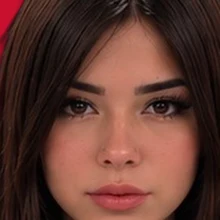
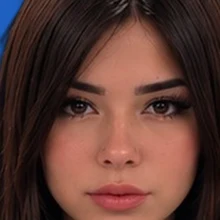
Propuesta productores de seguros: paleta de confianza (azul marino, azul y dorado)
Claude-Session: https://claude.ai/code/session_019ZUMXAytubFaQ5bmkBkFJN

Changed region(s): [[0.0, 0.0, 0.1091, 0.3]]

diff --git a/propuesta-productores-de-seguros/index.html b/propuesta-productores-de-seguros/index.html
@@ -8,8 +8,8 @@
 <link href="https://fonts.googleapis.com/css2?family=Fraunces:opsz,wght@9..144,500;9..144,700&family=Manrope:wght@400;500;600;700;800&display=swap" rel="stylesheet">
 <style>
 :root{
-  --navy:#0B0B0C; --navy2:#1C1C1F; --ink:#141416; --muted:#5E5E66;
-  --teal:#C8102E; --teal2:#FBEAEC; --amber:#E63946; --cream:#F6F6F7; --line:#E3E3E6; --white:#fff;
+  --navy:#0C1E33; --navy2:#16304F; --ink:#13202F; --muted:#5B6778;
+  --teal:#1F5FBF; --teal2:#E7EFFA; --amber:#D9A441; --cream:#F8F6F2; --line:#E5E0D6; --white:#fff;
   --r:18px;
 }
 *{box-sizing:border-box;margin:0;padding:0}
@@ -18,11 +18,11 @@ body{font-family:Manrope,system-ui,sans-serif;color:var(--ink);background:var(--
 h1,h2,h3{font-family:Fraunces,Georgia,serif;font-weight:700;line-height:1.12;letter-spacing:-.01em}
 a{color:inherit}
 .wrap{max-width:1140px;margin:0 auto;padding:0 22px}
-.demo{background:#C8102E;color:#fff;font-size:12.5px;font-weight:700;text-align:center;padding:7px 12px;letter-spacing:.02em}
-nav{position:sticky;top:0;z-index:30;background:rgba(11,11,12,.96);backdrop-filter:blur(8px);color:#fff}
+.demo{background:#D9A441;color:#2B1D00;font-size:12.5px;font-weight:700;text-align:center;padding:7px 12px;letter-spacing:.02em}
+nav{position:sticky;top:0;z-index:30;background:rgba(12,30,51,.96);backdrop-filter:blur(8px);color:#fff}
 nav .wrap{display:flex;align-items:center;justify-content:space-between;height:64px;gap:16px}
 .brand{display:flex;align-items:center;gap:11px;text-decoration:none}
-.mono{width:38px;height:38px;border-radius:11px;background:linear-gradient(135deg,#E0182F,#8E0B20);display:grid;place-items:center;font-family:Fraunces;font-weight:700;font-size:17px}
+.mono{width:38px;height:38px;border-radius:11px;background:linear-gradient(135deg,#2C72D9,#173E7A);display:grid;place-items:center;font-family:Fraunces;font-weight:700;font-size:17px}
 .brand b{display:block;font-size:15px}.brand small{display:block;font-size:11.5px;color:#A8A8B0;font-weight:500}
 .links{display:flex;gap:22px;font-size:14px;font-weight:600}
 .links a{text-decoration:none;color:#DADADF}.links a:hover{color:#fff}
@@ -35,20 +35,20 @@ nav .wrap{display:flex;align-items:center;justify-content:space-between;height:6
 @media(max-width:860px){.links{display:none}}
 
 /* hero */
-.hero{background:radial-gradient(1000px 480px at 88% -10%,rgba(200,16,46,.38) 0,transparent 60%),var(--navy);color:#fff;padding:70px 0 90px;position:relative;overflow:hidden}
+.hero{background:radial-gradient(1000px 480px at 88% -10%,rgba(44,114,217,.38) 0,transparent 60%),var(--navy);color:#fff;padding:70px 0 90px;position:relative;overflow:hidden}
 .hero .grid{display:grid;grid-template-columns:1.25fr .9fr;gap:48px;align-items:center}
 @media(max-width:900px){.hero .grid{grid-template-columns:1fr}}
-.tag{display:inline-flex;gap:8px;align-items:center;background:rgba(200,16,46,.16);color:#FF8A95;border:1px solid rgba(255,138,149,.35);padding:6px 12px;border-radius:999px;font-size:12.5px;font-weight:700;letter-spacing:.03em}
+.tag{display:inline-flex;gap:8px;align-items:center;background:rgba(217,164,65,.14);color:#F2CD82;border:1px solid rgba(242,205,130,.35);padding:6px 12px;border-radius:999px;font-size:12.5px;font-weight:700;letter-spacing:.03em}
 .hero h1{font-size:clamp(36px,5.2vw,58px);margin:18px 0 16px}
 .hero h1 em{font-style:italic;color:var(--amber);font-weight:500}
 .hero p.lead{font-size:18px;color:#CFCFD4;max-width:560px}
 .hero .ctas{display:flex;gap:12px;flex-wrap:wrap;margin-top:28px}
 .facts{display:flex;gap:26px;margin-top:34px;flex-wrap:wrap}
 .facts div{font-size:13px;color:#A8A8B0}.facts b{display:block;color:#fff;font-size:20px;font-family:Fraunces}
-.card-id{background:linear-gradient(160deg,#fff,#F2F2F3);color:var(--ink);border-radius:24px;padding:26px;box-shadow:0 30px 60px rgba(0,0,0,.35);position:relative}
+.card-id{background:linear-gradient(160deg,#fff,#F3F0EA);color:var(--ink);border-radius:24px;padding:26px;box-shadow:0 30px 60px rgba(0,0,0,.35);position:relative}
 .card-id .top{display:flex;justify-content:space-between;align-items:flex-start}
-.avatar{width:74px;height:74px;border-radius:20px;overflow:hidden;background:linear-gradient(135deg,#1C1C1F,#C8102E);color:#fff;display:grid;place-items:center;font-family:Fraunces;font-size:30px}
-.chip{font-size:11px;font-weight:800;letter-spacing:.06em;text-transform:uppercase;background:var(--teal2);color:#A50E26;padding:5px 9px;border-radius:7px}
+.avatar{width:74px;height:74px;border-radius:20px;overflow:hidden;background:linear-gradient(135deg,#16304F,#1F5FBF);color:#fff;display:grid;place-items:center;font-family:Fraunces;font-size:30px}
+.chip{font-size:11px;font-weight:800;letter-spacing:.06em;text-transform:uppercase;background:var(--teal2);color:#164A99;padding:5px 9px;border-radius:7px}
 .card-id h3{font-size:24px;margin:16px 0 2px}
 .card-id .role{color:var(--muted);font-size:14px;font-weight:600}
 .card-id dl{display:grid;grid-template-columns:auto 1fr;gap:8px 14px;margin:18px 0;font-size:13.5px}
@@ -76,7 +76,7 @@ section{padding:84px 0}
 @media(max-width:980px){.ramos{grid-template-columns:repeat(2,1fr)}}
 @media(max-width:520px){.ramos{grid-template-columns:1fr}}
 .ramo{background:#fff;border:1px solid var(--line);border-radius:var(--r);padding:22px;cursor:pointer;text-align:left;font:inherit;color:inherit;transition:border-color .15s,transform .15s,box-shadow .15s;display:flex;flex-direction:column;gap:8px}
-.ramo:hover{border-color:var(--teal);transform:translateY(-3px);box-shadow:0 14px 30px rgba(11,11,12,.10)}
+.ramo:hover{border-color:var(--teal);transform:translateY(-3px);box-shadow:0 14px 30px rgba(12,30,51,.10)}
 .ramo h3{font-size:20px}.ramo p{font-size:14px;color:var(--muted);flex:1}
 .ramo .more{font-size:13px;font-weight:800;color:var(--teal)}
 .ramo.feat{background:var(--navy);color:#fff;border-color:var(--navy)}
@@ -95,7 +95,7 @@ section{padding:84px 0}
 /* cotizador */
 .quote{display:grid;grid-template-columns:.9fr 1.1fr;gap:34px;align-items:start}
 @media(max-width:900px){.quote{grid-template-columns:1fr}}
-.qbox{background:#fff;border:1px solid var(--line);border-radius:24px;padding:28px;box-shadow:0 20px 50px rgba(11,11,12,.08)}
+.qbox{background:#fff;border:1px solid var(--line);border-radius:24px;padding:28px;box-shadow:0 20px 50px rgba(12,30,51,.08)}
 .steps{display:flex;gap:6px;margin-bottom:22px}.steps i{flex:1;height:5px;border-radius:9px;background:var(--line)}.steps i.on{background:var(--teal)}
 .qbox h3{font-size:22px;margin-bottom:4px}.qbox .sub{color:var(--muted);font-size:14px;margin-bottom:18px}
 .opts{display:grid;grid-template-columns:repeat(3,1fr);gap:10px}
@@ -127,16 +127,16 @@ section{padding:84px 0}
 .tl .s{background:rgba(255,255,255,.06);border:1px solid rgba(255,255,255,.12);border-radius:var(--r);padding:20px}
 .tl .s:before{counter-increment:s;content:counter(s,decimal-leading-zero);font-family:Fraunces;font-size:28px;color:var(--amber);display:block;margin-bottom:6px}
 .tl h4{font-size:16px;margin-bottom:4px}.tl p{font-size:14px;color:#B4B4BC}
-.alert{margin-top:22px;background:rgba(200,16,46,.14);border:1px solid rgba(230,57,70,.45);border-radius:14px;padding:14px 16px;font-size:14px;color:#FFD3D8}
+.alert{margin-top:22px;background:rgba(217,164,65,.14);border:1px solid rgba(217,164,65,.5);border-radius:14px;padding:14px 16px;font-size:14px;color:#F6DFAE}
 
 /* about */
 .about{display:grid;grid-template-columns:.8fr 1.2fr;gap:44px;align-items:center}
 @media(max-width:900px){.about{grid-template-columns:1fr}}
-.ph{aspect-ratio:4/5;border-radius:26px;background:linear-gradient(160deg,#2A2A2E,#0B0B0C);position:relative;overflow:hidden;display:grid;place-items:center;color:#fff}
-.avatar img{width:100%;height:100%;object-fit:cover;background:#C8102E}
-.ph{background:radial-gradient(circle at 50% 38%,#2a0a10 0,#0B0B0C 70%)}
-.ph .glow{position:absolute;width:70%;height:55%;top:18%;left:15%;background:radial-gradient(circle,rgba(200,16,46,.55),transparent 70%);filter:blur(30px)}
-.ph .pic{position:absolute;bottom:0;left:50%;transform:translateX(-50%);height:92%;width:auto;filter:contrast(1.05) drop-shadow(-18px 0 36px rgba(200,16,46,.45)) drop-shadow(18px 0 40px rgba(200,16,46,.25))}
+.ph{aspect-ratio:4/5;border-radius:26px;background:linear-gradient(160deg,#1E3A5F,#0C1E33);position:relative;overflow:hidden;display:grid;place-items:center;color:#fff}
+.avatar img{width:100%;height:100%;object-fit:cover;background:#1F5FBF}
+.ph{background:radial-gradient(circle at 50% 38%,#1d3a63 0,#0C1E33 72%)}
+.ph .glow{position:absolute;width:70%;height:55%;top:18%;left:15%;background:radial-gradient(circle,rgba(70,140,235,.5),transparent 70%);filter:blur(30px)}
+.ph .pic{position:absolute;bottom:0;left:50%;transform:translateX(-50%);height:92%;width:auto;filter:contrast(1.05) drop-shadow(-18px 0 36px rgba(60,130,230,.45)) drop-shadow(18px 0 40px rgba(217,164,65,.25))}
 .ph:before{content:"PAS";position:absolute;top:6%;left:0;right:0;text-align:center;font-family:Fraunces;font-weight:700;font-size:150px;color:rgba(255,255,255,.05);letter-spacing:.05em}
 .ph .lbl{position:absolute;bottom:16px;left:16px;right:16px;background:rgba(255,255,255,.12);backdrop-filter:blur(6px);border-radius:14px;padding:12px 14px;font-size:13px}
 .about h2{font-size:clamp(28px,3.4vw,40px);margin:8px 0 14px}
@@ -164,7 +164,7 @@ section{padding:84px 0}
 .cc div{font-weight:700;font-size:16px}
 .cc p{color:var(--muted);font-size:14px;margin-top:4px}
 
-footer{background:#050506;color:#A6A6AE;padding:40px 0 30px;font-size:13.5px}
+footer{background:#081626;color:#A6A6AE;padding:40px 0 30px;font-size:13.5px}
 .ssn{display:flex;gap:18px;align-items:center;flex-wrap:wrap;border:1px solid rgba(255,255,255,.12);border-radius:16px;padding:18px;margin-bottom:22px;background:rgba(255,255,255,.03)}
 .ssnlogo{width:84px;height:54px;border:1.5px dashed rgba(255,255,255,.35);border-radius:10px;display:grid;place-items:center;font-size:10.5px;text-align:center;line-height:1.2;color:#D8D8DD;flex:none}
 .ssn p{flex:1;min-width:240px}.ssn b{color:#fff}
@@ -174,7 +174,7 @@ footer{background:#050506;color:#A6A6AE;padding:40px 0 30px;font-size:13.5px}
 .fab svg{width:28px;height:28px;fill:#fff}
 
 /* modal */
-.modal{position:fixed;inset:0;background:rgba(5,5,6,.65);z-index:50;display:none;align-items:center;justify-content:center;padding:18px}
+.modal{position:fixed;inset:0;background:rgba(8,22,38,.65);z-index:50;display:none;align-items:center;justify-content:center;padding:18px}
 .modal.on{display:flex}
 .sheet{background:#fff;border-radius:24px;max-width:720px;width:100%;max-height:88vh;overflow:auto;padding:30px;position:relative}
 .sheet .x{position:absolute;top:14px;right:14px;border:0;background:var(--cream);width:36px;height:36px;border-radius:50%;font-size:20px;cursor:pointer}
@@ -183,7 +183,7 @@ footer{background:#050506;color:#A6A6AE;padding:40px 0 30px;font-size:13.5px}
 .cov div{border:1px solid var(--line);border-radius:14px;padding:14px 16px}
 .cov b{display:block;margin-bottom:2px}.cov span{font-size:14px;color:var(--muted)}
 .need{background:var(--teal2);border-radius:14px;padding:14px 16px;font-size:14px;margin-bottom:18px}
-.need b{display:block;margin-bottom:4px;color:#A50E26}
+.need b{display:block;margin-bottom:4px;color:#164A99}
 .toast{position:fixed;left:50%;bottom:26px;transform:translateX(-50%) translateY(30px);opacity:0;background:var(--navy);color:#fff;padding:12px 18px;border-radius:12px;font-size:14px;font-weight:600;transition:.25s;z-index:60}
 .toast.on{opacity:1;transform:translateX(-50%) translateY(0)}
 </style>
@@ -311,7 +311,7 @@ footer{background:#050506;color:#A6A6AE;padding:40px 0 30px;font-size:13.5px}
 
 <section class="sin" id="siniestros">
   <div class="wrap">
-    <div class="sh"><div><div class="eyebrow" style="color:#FF8A95">Siniestros</div><h2>¿Tuviste un siniestro? Esto es lo que tenés que hacer.</h2></div><p>Guardá esta guía. Y ante la duda, escribime antes de hacer cualquier trámite.</p></div>
+    <div class="sh"><div><div class="eyebrow" style="color:#F2CD82">Siniestros</div><h2>¿Tuviste un siniestro? Esto es lo que tenés que hacer.</h2></div><p>Guardá esta guía. Y ante la duda, escribime antes de hacer cualquier trámite.</p></div>
     <div class="tabs"><button class="on" data-t="auto">Choque o accidente</button><button data-t="robo">Robo</button><button data-t="hogar">Hogar</button></div>
     <div class="tl" id="tl"></div>
     <div class="alert"><b>Importante:</b> la ley de seguros (Ley 17.418) pide avisar el siniestro a la compañía dentro de los 3 días de conocido. Escribime cuanto antes y la denuncia la hacemos juntos.</div>
